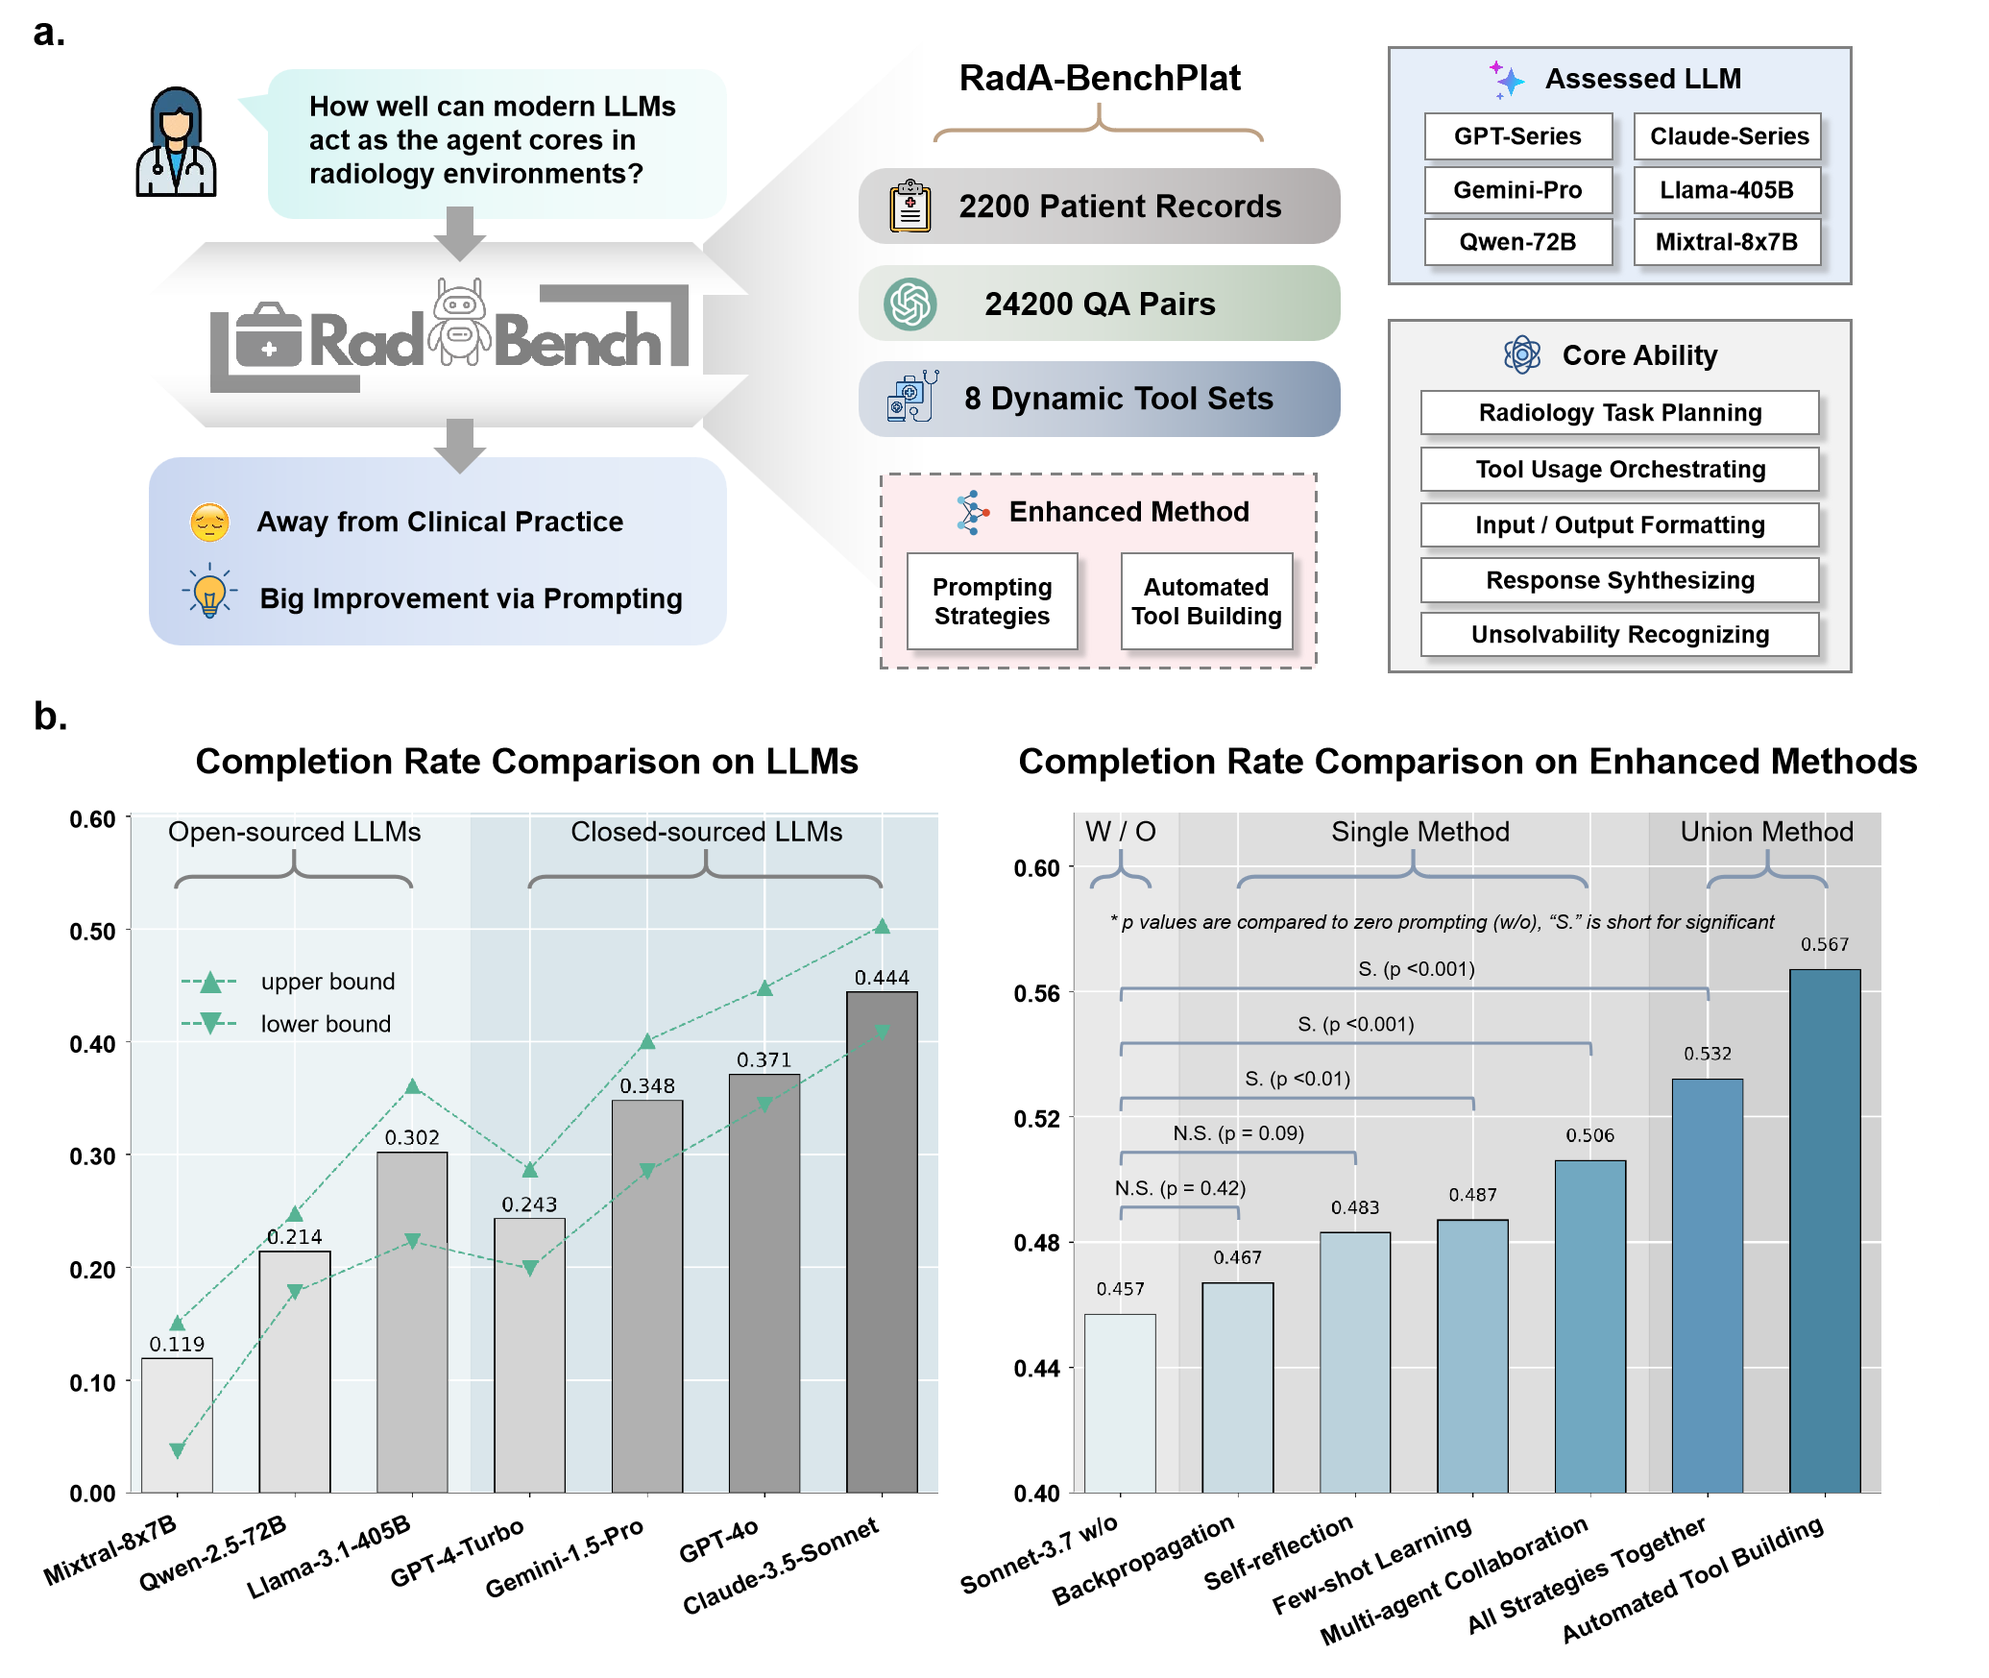
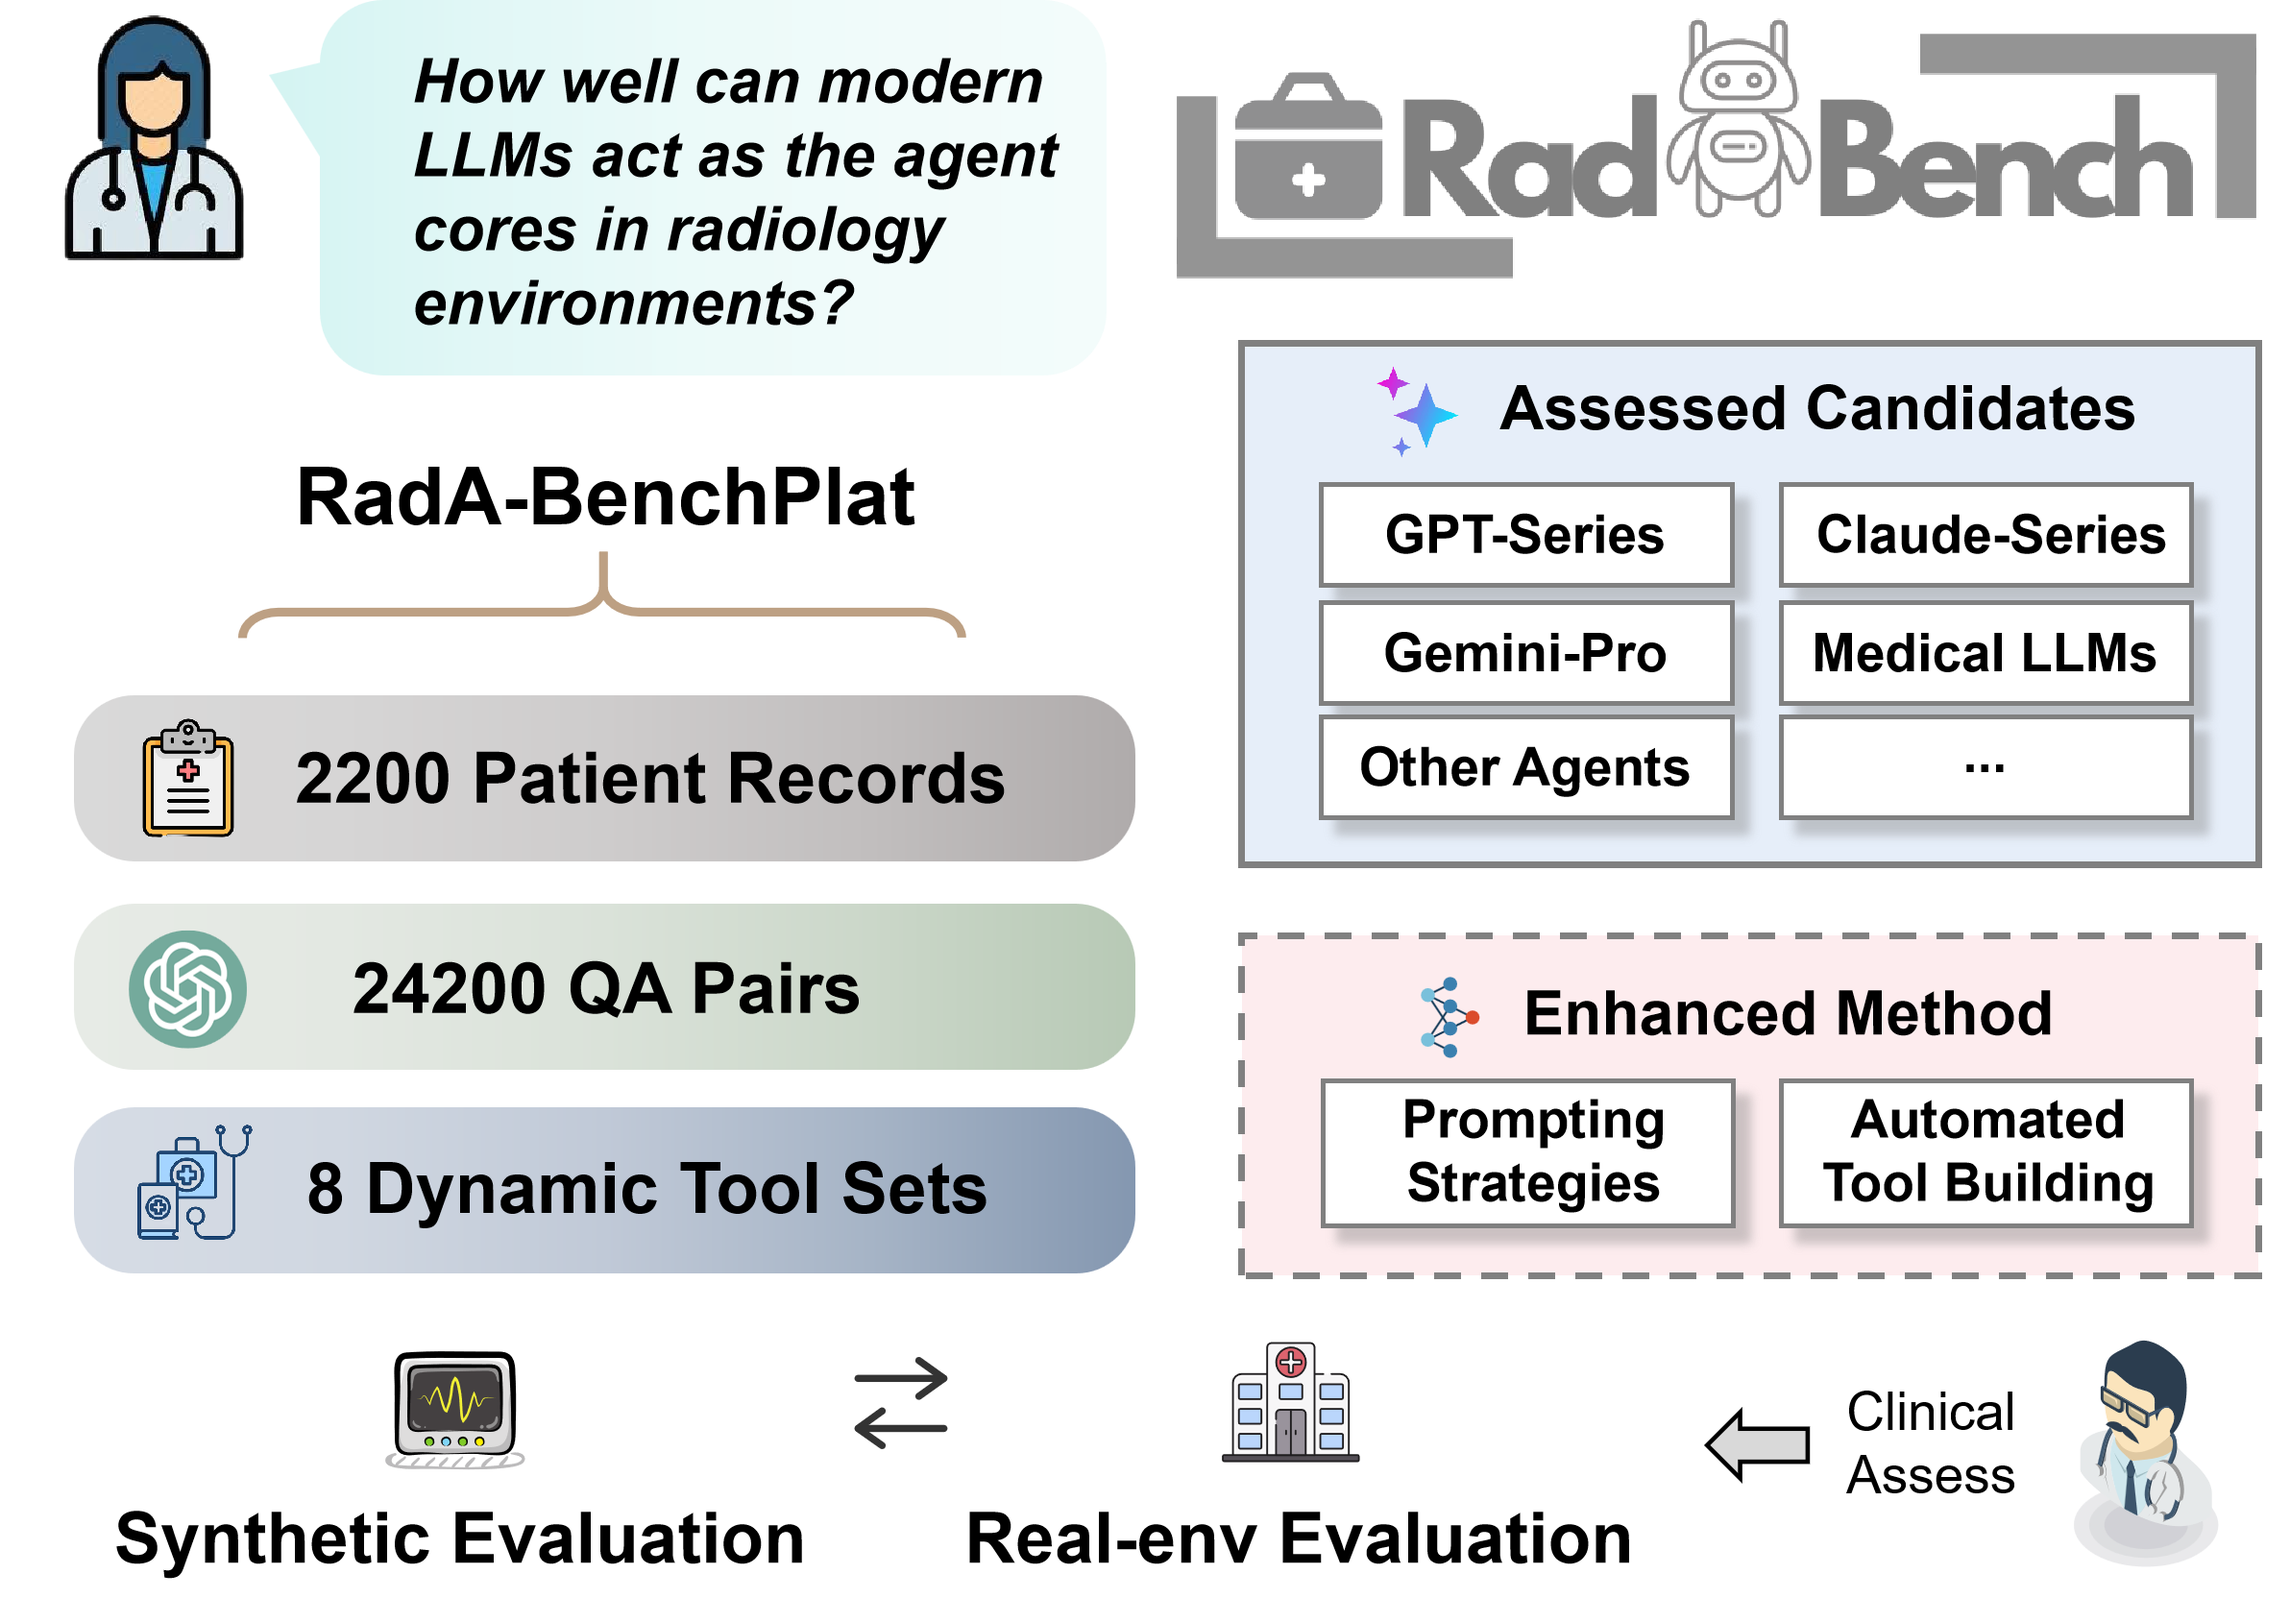
Update research: RadABench accepted to EMNLP 2026, add three new papers
- RadABench: new teaser figure, moved to the top, venue updated to
  EMNLP 2026 Main Conference, author list and description updated to
  match the camera-ready version
- Add MedSR-Copilot (medRxiv 2026), OpenPheno (bioRxiv 2026) and
  DiagAgent (arXiv 2025), ordered by date
- Deep-DxSearch: sync author list with arXiv v2

Claude-Session: https://claude.ai/code/session_01LdoJXCsMvWZZqnTubLb5Se

diff --git a/index.html b/index.html
@@ -307,6 +307,106 @@
             <h2 class="section-title">Research</h2>
 
             <div class="project">
+                <img src="image/RadABench.png" alt="RadABench" class="project-image">
+                <div class="project-content">
+                    <a href="https://arxiv.org/pdf/2412.09529" class="project-title">
+                        How Well Can Modern LLMs Act as Agent Cores in Radiology Environments?
+                    </a>
+                    <div class="project-authors">
+                        <span class="highlight">Qiaoyu Zheng*</span>,
+                        <a href="https://chaoyi-wu.github.io/" class="author-link">Chaoyi Wu*</a>,
+                        <a href="https://angelakeke.github.io/" class="author-link">Weike Zhao</a>,
+                        <a href="https://henrychur.github.io/" class="author-link">Pengcheng Qiu</a>,
+                        Lisong Dai,
+                        <a href="https://mediabrain.sjtu.edu.cn/yazhang/" class="author-link">Ya Zhang</a>,
+                        <a href="https://mediabrain.sjtu.edu.cn/members/" class="author-link">Yanfeng Wang†</a>,
+                        <a href="https://weidixie.github.io/" class="author-link">Weidi Xie†</a>
+                    </div>
+                    <div class="project-venue">EMNLP 2026, Main Conference</div>
+                    <div class="project-description">
+                        We present <strong>RadA-BenchPlat</strong>, a two-layer benchmark for radiology agents: a synthetic layer with 2.2k clinician-verified records, 24.2k QA pairs and 10 tool categories, and a real-environment layer pairing 165 2D/3D cases with executable tools. High completion rates under idealized settings do not carry over to real execution, while prompting strategies and on-the-fly synthesis of missing tools substantially narrow the gap.
+                    </div>
+                </div>
+            </div>
+
+            <div class="project">
+                <img src="image/MedSR.png" alt="MedSR-Copilot" class="project-image">
+                <div class="project-content">
+                    <a href="https://www.medrxiv.org/content/10.64898/2026.07.30.26359375v1" class="project-title">
+                        A PRISMA-Aligned Agentic Framework for Medical Systematic Reviews and Evidence Synthesis
+                    </a>
+                    <div class="project-authors">
+                        Haoming Huang,
+                        <span class="highlight">Qiaoyu Zheng</span>,
+                        <a href="https://henrychur.github.io/" class="author-link">Pengcheng Qiu</a>,
+                        <a href="https://angelakeke.github.io/" class="author-link">Weike Zhao</a>,
+                        <a href="https://mediabrain.sjtu.edu.cn/yazhang/" class="author-link">Ya Zhang</a>,
+                        <a href="https://weidixie.github.io/" class="author-link">Weidi Xie</a>,
+                        <a href="https://mediabrain.sjtu.edu.cn/members/" class="author-link">Yanfeng Wang†</a>,
+                        <a href="https://xiaoman-zhang.github.io/" class="author-link">Xiaoman Zhang†</a>,
+                        <a href="https://chaoyi-wu.github.io/" class="author-link">Chaoyi Wu†</a>
+                    </div>
+                    <div class="project-venue">medRxiv preprint, 2026</div>
+                    <div class="project-description">
+                        We introduce <strong>MedSR-Copilot</strong>, a PRISMA-aligned multi-agent copilot that automates medical systematic reviews end-to-end—literature retrieval, coarse-to-fine screening, data extraction, risk-of-bias assessment and evidence synthesis—together with MedSR-Bench for end-to-end evaluation. It attains 63.6% human-aligned conclusions, and as a copilot cuts review time by 64.9% while raising conclusion accuracy by 27.4 points.
+                    </div>
+                </div>
+            </div>
+
+            <div class="project">
+                <img src="image/CompoundActivityPred.png" alt="OpenPheno" class="project-image">
+                <div class="project-content">
+                    <a href="https://www.biorxiv.org/content/10.64898/2026.02.28.708711v1" class="project-title">
+                        Phenotypic Bioactivity Prediction as Open-set Biological Assay Querying
+                    </a>
+                    <div class="project-authors">
+                        Yuze Sun*,
+                        <a href="https://xiaoman-zhang.github.io/" class="author-link">Xiaoman Zhang*</a>,
+                        <span class="highlight">Qiaoyu Zheng</span>,
+                        Hanzheng Li,
+                        Jianming Zhang,
+                        Liang Hong,
+                        <a href="https://mediabrain.sjtu.edu.cn/members/" class="author-link">Yanfeng Wang†</a>,
+                        <a href="https://mediabrain.sjtu.edu.cn/yazhang/" class="author-link">Ya Zhang†</a>,
+                        <a href="https://weidixie.github.io/" class="author-link">Weidi Xie†</a>
+                    </div>
+                    <div class="project-venue">bioRxiv preprint, 2026</div>
+                    <div class="project-description">
+                        We present <strong>OpenPheno</strong>, a multimodal foundation model that reframes bioactivity prediction as open-set visual-language question answering. Pairing chemical structures and Cell Painting phenotypic profiles with natural-language assay descriptions enables a "profile once, predict many" paradigm, reaching 0.75 mean AUROC zero-shot on 54 unseen assays and holding 0.66 when both compounds and assays are novel.
+                    </div>
+                </div>
+            </div>
+
+            <div class="project">
+                <img src="image/DiagGym.png" alt="DiagAgent" class="project-image">
+                <div class="project-content">
+                    <a href="https://arxiv.org/pdf/2510.24654" class="project-title">
+                        Evolving Interactive Diagnostic Agents in a Virtual Clinical Environment
+                    </a>
+                    <div class="project-authors">
+                        <a href="https://henrychur.github.io/" class="author-link">Pengcheng Qiu*</a>,
+                        <a href="https://chaoyi-wu.github.io/" class="author-link">Chaoyi Wu*</a>,
+                        Junwei Liu*,
+                        <span class="highlight">Qiaoyu Zheng</span>,
+                        Yusheng Liao,
+                        Haowen Wang,
+                        Yun Yue,
+                        Qianrui Fan,
+                        Shuai Zhen,
+                        Jian Wang,
+                        Jinjie Gu,
+                        <a href="https://mediabrain.sjtu.edu.cn/members/" class="author-link">Yanfeng Wang</a>,
+                        <a href="https://mediabrain.sjtu.edu.cn/yazhang/" class="author-link">Ya Zhang†</a>,
+                        <a href="https://weidixie.github.io/" class="author-link">Weidi Xie†</a>
+                    </div>
+                    <div class="project-venue">arXiv preprint, 2025</div>
+                    <div class="project-description">
+                        We train LLMs as interactive diagnostic agents with end-to-end multi-turn reinforcement learning. <strong>DiagGym</strong>, a diagnostics world model built from electronic health records, serves as a virtual clinical environment for closed-loop training, and <strong>DiagBench</strong> supplies 2.2K physician-validated cases with 3.3K rubrics. The resulting <strong>DiagAgent</strong> outperforms 11 state-of-the-art LLMs and 2 prompt-engineered agents in both in-domain and out-of-domain settings.
+                    </div>
+                </div>
+            </div>
+
+            <div class="project">
                 <img src="image/Deep-DxSearch.png" alt="Deep-DxSearch" class="project-image">
                 <div class="project-content">
                     <a href="https://qiaoyu-zheng.github.io/Deep-DxSearch" class="project-title">
@@ -320,6 +420,7 @@
                         <a href="https://henrychur.github.io/" class="author-link">Pengcheng Qiu</a>,
                         <a href="https://www.shsmu.edu.cn/ekxy-en/info/1054/1402.htm" class="author-link">Yongguo Yu</a>,
                         Kun Sun,
+                        Jian Zhang,
                         <a href="https://mediabrain.sjtu.edu.cn/members/" class="author-link">Yanfeng Wang</a>,
                         <a href="https://mediabrain.sjtu.edu.cn/yazhang/" class="author-link">Ya Zhang†</a>,
                         <a href="https://weidixie.github.io/" class="author-link">Weidi Xie†</a>
@@ -353,27 +454,6 @@
                 </div>
             </div>
 
-            <div class="project">
-                <img src="image/RadABench.png" alt="RadABench" class="project-image">
-                <div class="project-content">
-                    <a href="https://arxiv.org/pdf/2412.09529" class="project-title">
-                        How Well Can Modern LLMs Act as Agent Cores in Radiology Environments?
-                    </a>
-                    <div class="project-authors">
-                        <span class="highlight">Qiaoyu Zheng*</span>,
-                        <a href="https://chaoyi-wu.github.io/" class="author-link">Chaoyi Wu*</a>,
-                        Pengcheng Qiu,
-                        Lisong Dai,
-                        <a href="https://mediabrain.sjtu.edu.cn/yazhang/" class="author-link">Ya Zhang</a>,
-                        <a href="https://mediabrain.sjtu.edu.cn/members/" class="author-link">Yanfeng Wang†</a>,
-                        <a href="https://weidixie.github.io/" class="author-link">Weidi Xie†</a>
-                    </div>
-                    <div class="project-venue">Technical Report, 2024</div>
-                    <div class="project-description">
-                        We evaluate modern LLMs as agent cores in radiology environments through a comprehensive dataset, innovative evaluation platform, and performance assessments of leading models. Results highlight key challenges in tool comprehension, information synthesis, and format maintenance, confirming that while promising, current LLMs are not yet ready to serve as standalone radiology agent cores.
-                    </div>
-                </div>
-            </div>
 
             <div class="project">
                 <img src="image/RP3D-Diag.png" alt="RP3D-Diag" class="project-image">
